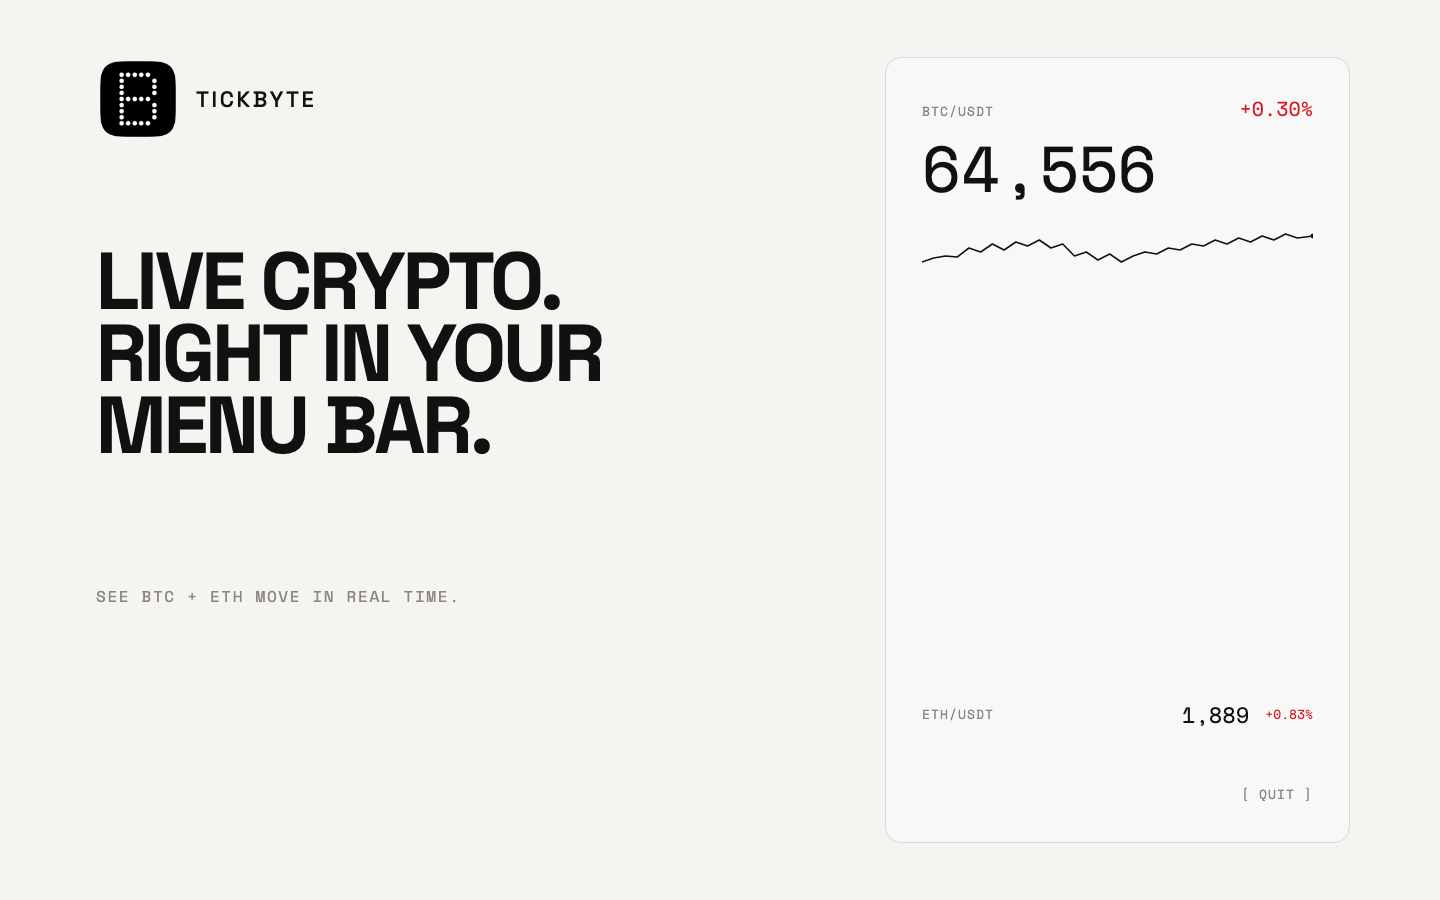
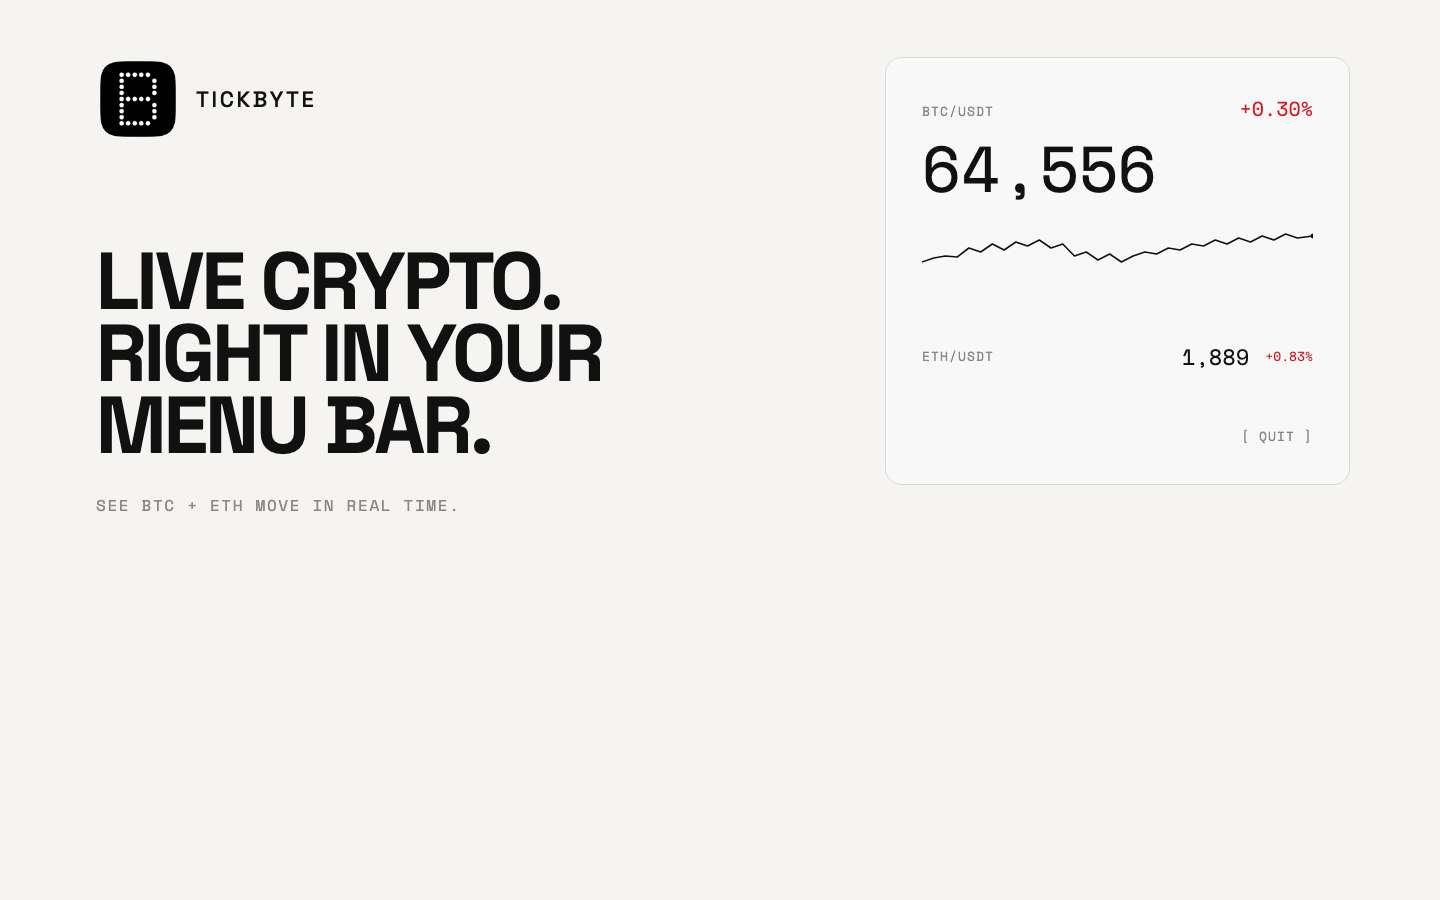
Stop stretching the listing panel to the old height
The 1.1 board is one hero and a compact row, so the card is that
tall — not a hollow copy of the two-coin 1.0 frame.

diff --git a/AppStore/Screenshots/mock-v5.html b/AppStore/Screenshots/mock-v5.html
@@ -19,7 +19,7 @@
     html, body { width: 1440px; height: 900px; overflow: hidden; }
     body {
       display: flex;
-      align-items: stretch;
+      align-items: flex-start;
       justify-content: space-between;
       padding: 57px 90px 57px 96px;
       background: #F5F4F1;
@@ -53,7 +53,7 @@
       text-transform: uppercase;
     }
     .lede {
-      margin-top: 123px;
+      margin-top: 32px;
       font-family: "Space Mono", monospace;
       font-size: 16px;
       letter-spacing: 0.1em;
@@ -100,7 +100,7 @@
       display: flex;
       align-items: center;
       min-height: 56px;
-      margin-top: auto;
+      margin-top: 48px;
     }
     .compact-pair { flex: 1; }
     .compact-price {
